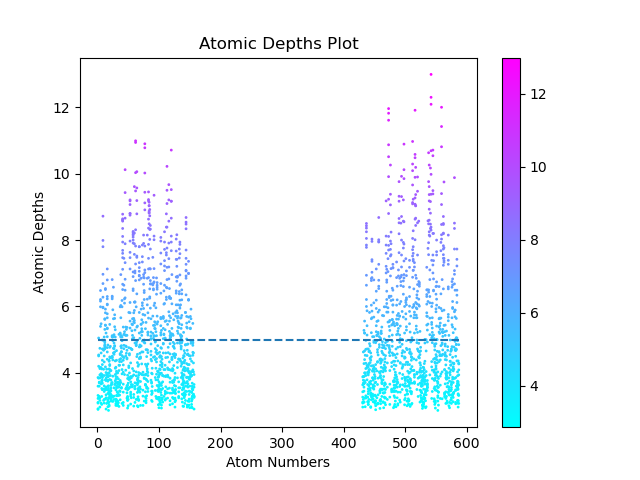
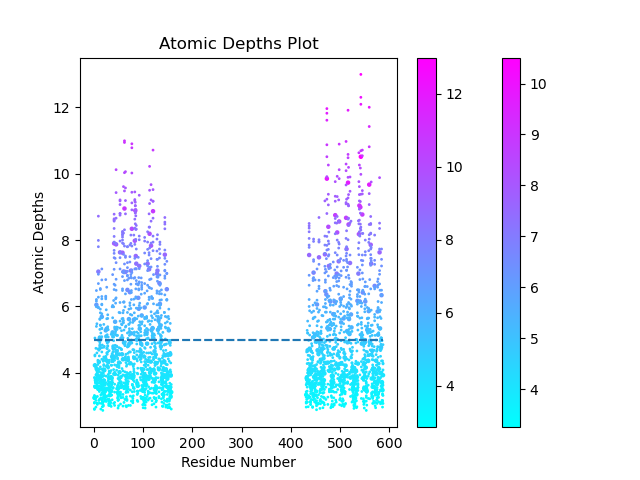
Updated READMe

diff --git a/README.md b/README.md
@@ -19,14 +19,24 @@ DEPTH code: if depth-generated files are not provided as input
 **********************
 Compiling DEPTH: See Also; http://cospi.iiserpune.ac.in/depth/download/
 **********************
-tar -xvzf depth_source.tar.gz
-cd depth_source/bin
+
+cd deepscore/Externals/DEPTH/bin
 make
-./DEPTH -i 2grn.pdb -o 2grn
-For options run ./DEPTH wihtout any inputs
 
 
-
-To run the code with an example file, use the following:
+To run the DeepScore with an example file, use the following:
 
 python simple_API.py
+
+This will plot the residue-wise depth values and atomwise depth values. The actual values can be accessed using DeepScore object as follows:
+
+#DEPTH values are stored in ds_obj.ResidueDepths python dictionary.
+#Key-value pairs: key: (chain,residuenumber), value: [DEPTH value , Standard deviation]
+
+    for Residue_ID, Depth_vals in ds_obj.ResidueDepths.items():
+        chain,residuenumber = Residue_ID
+        DEPTH_value , Depth_SD =  Depth_vals
+    
+    for Residue_ID, Depth_vals in ds_obj.AtomicDepths.items():
+        chain,residuenumber,atomtype = Residue_ID
+        DEPTH_value , Depth_SD =  Depth_vals
